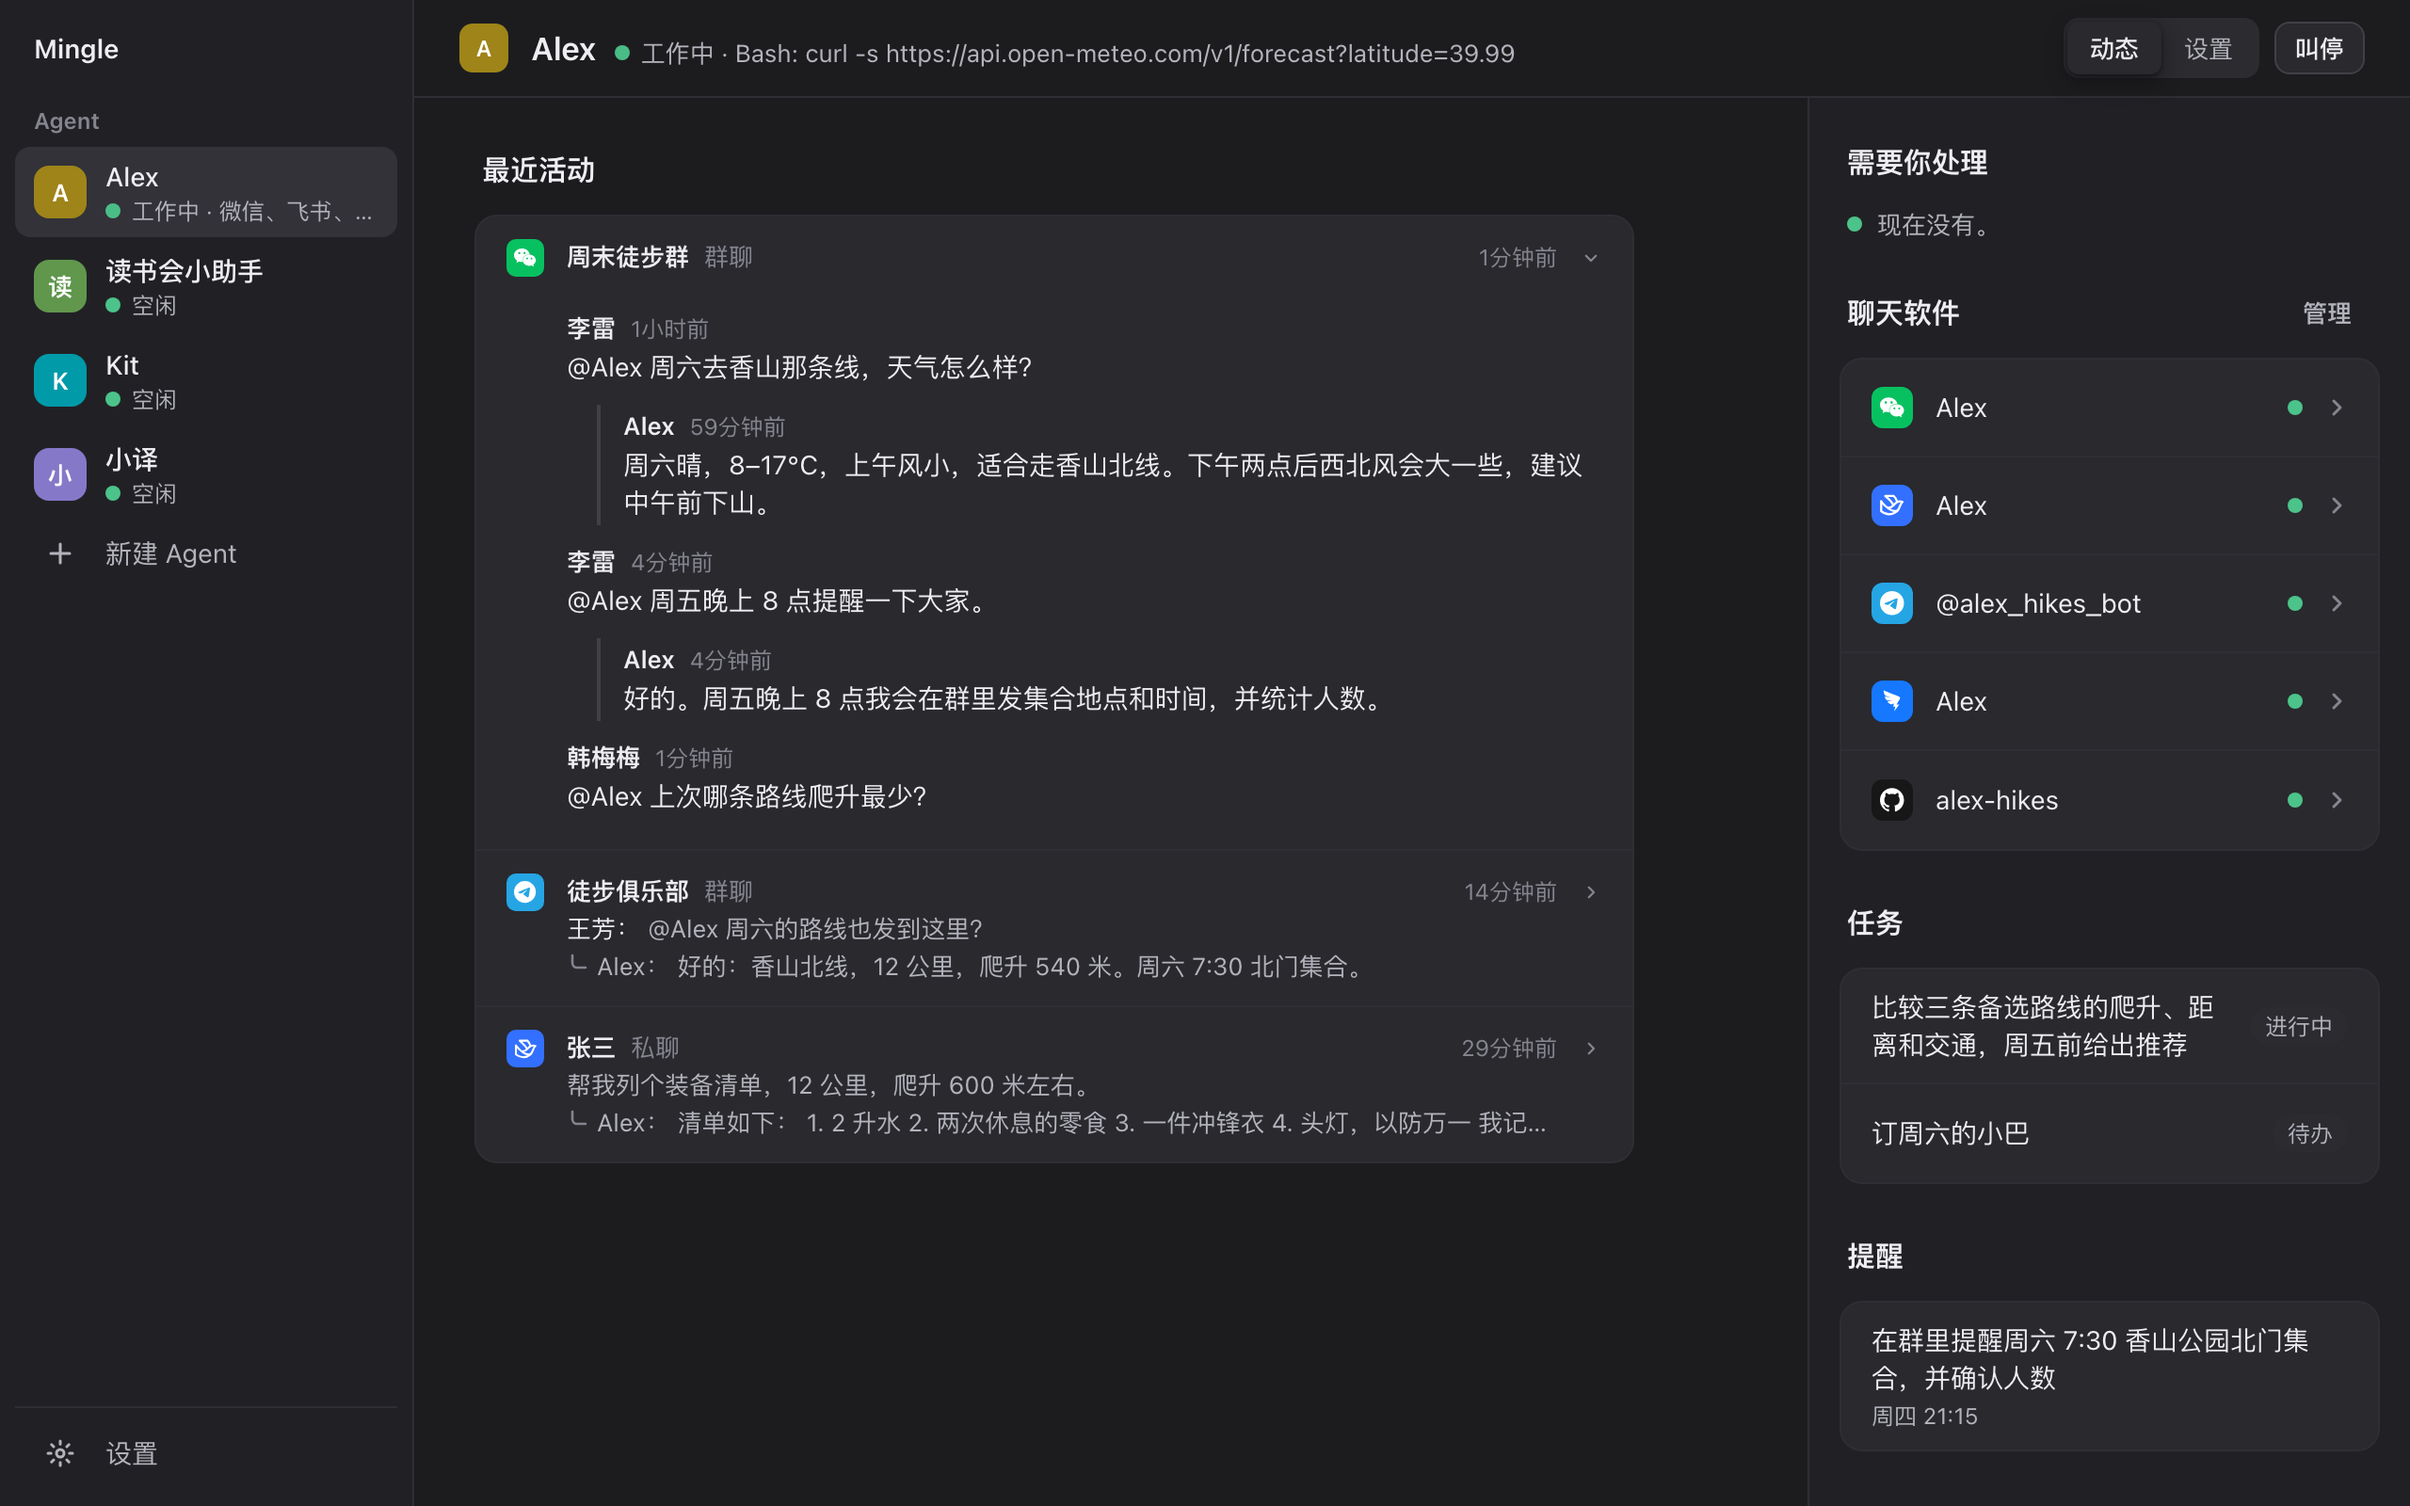
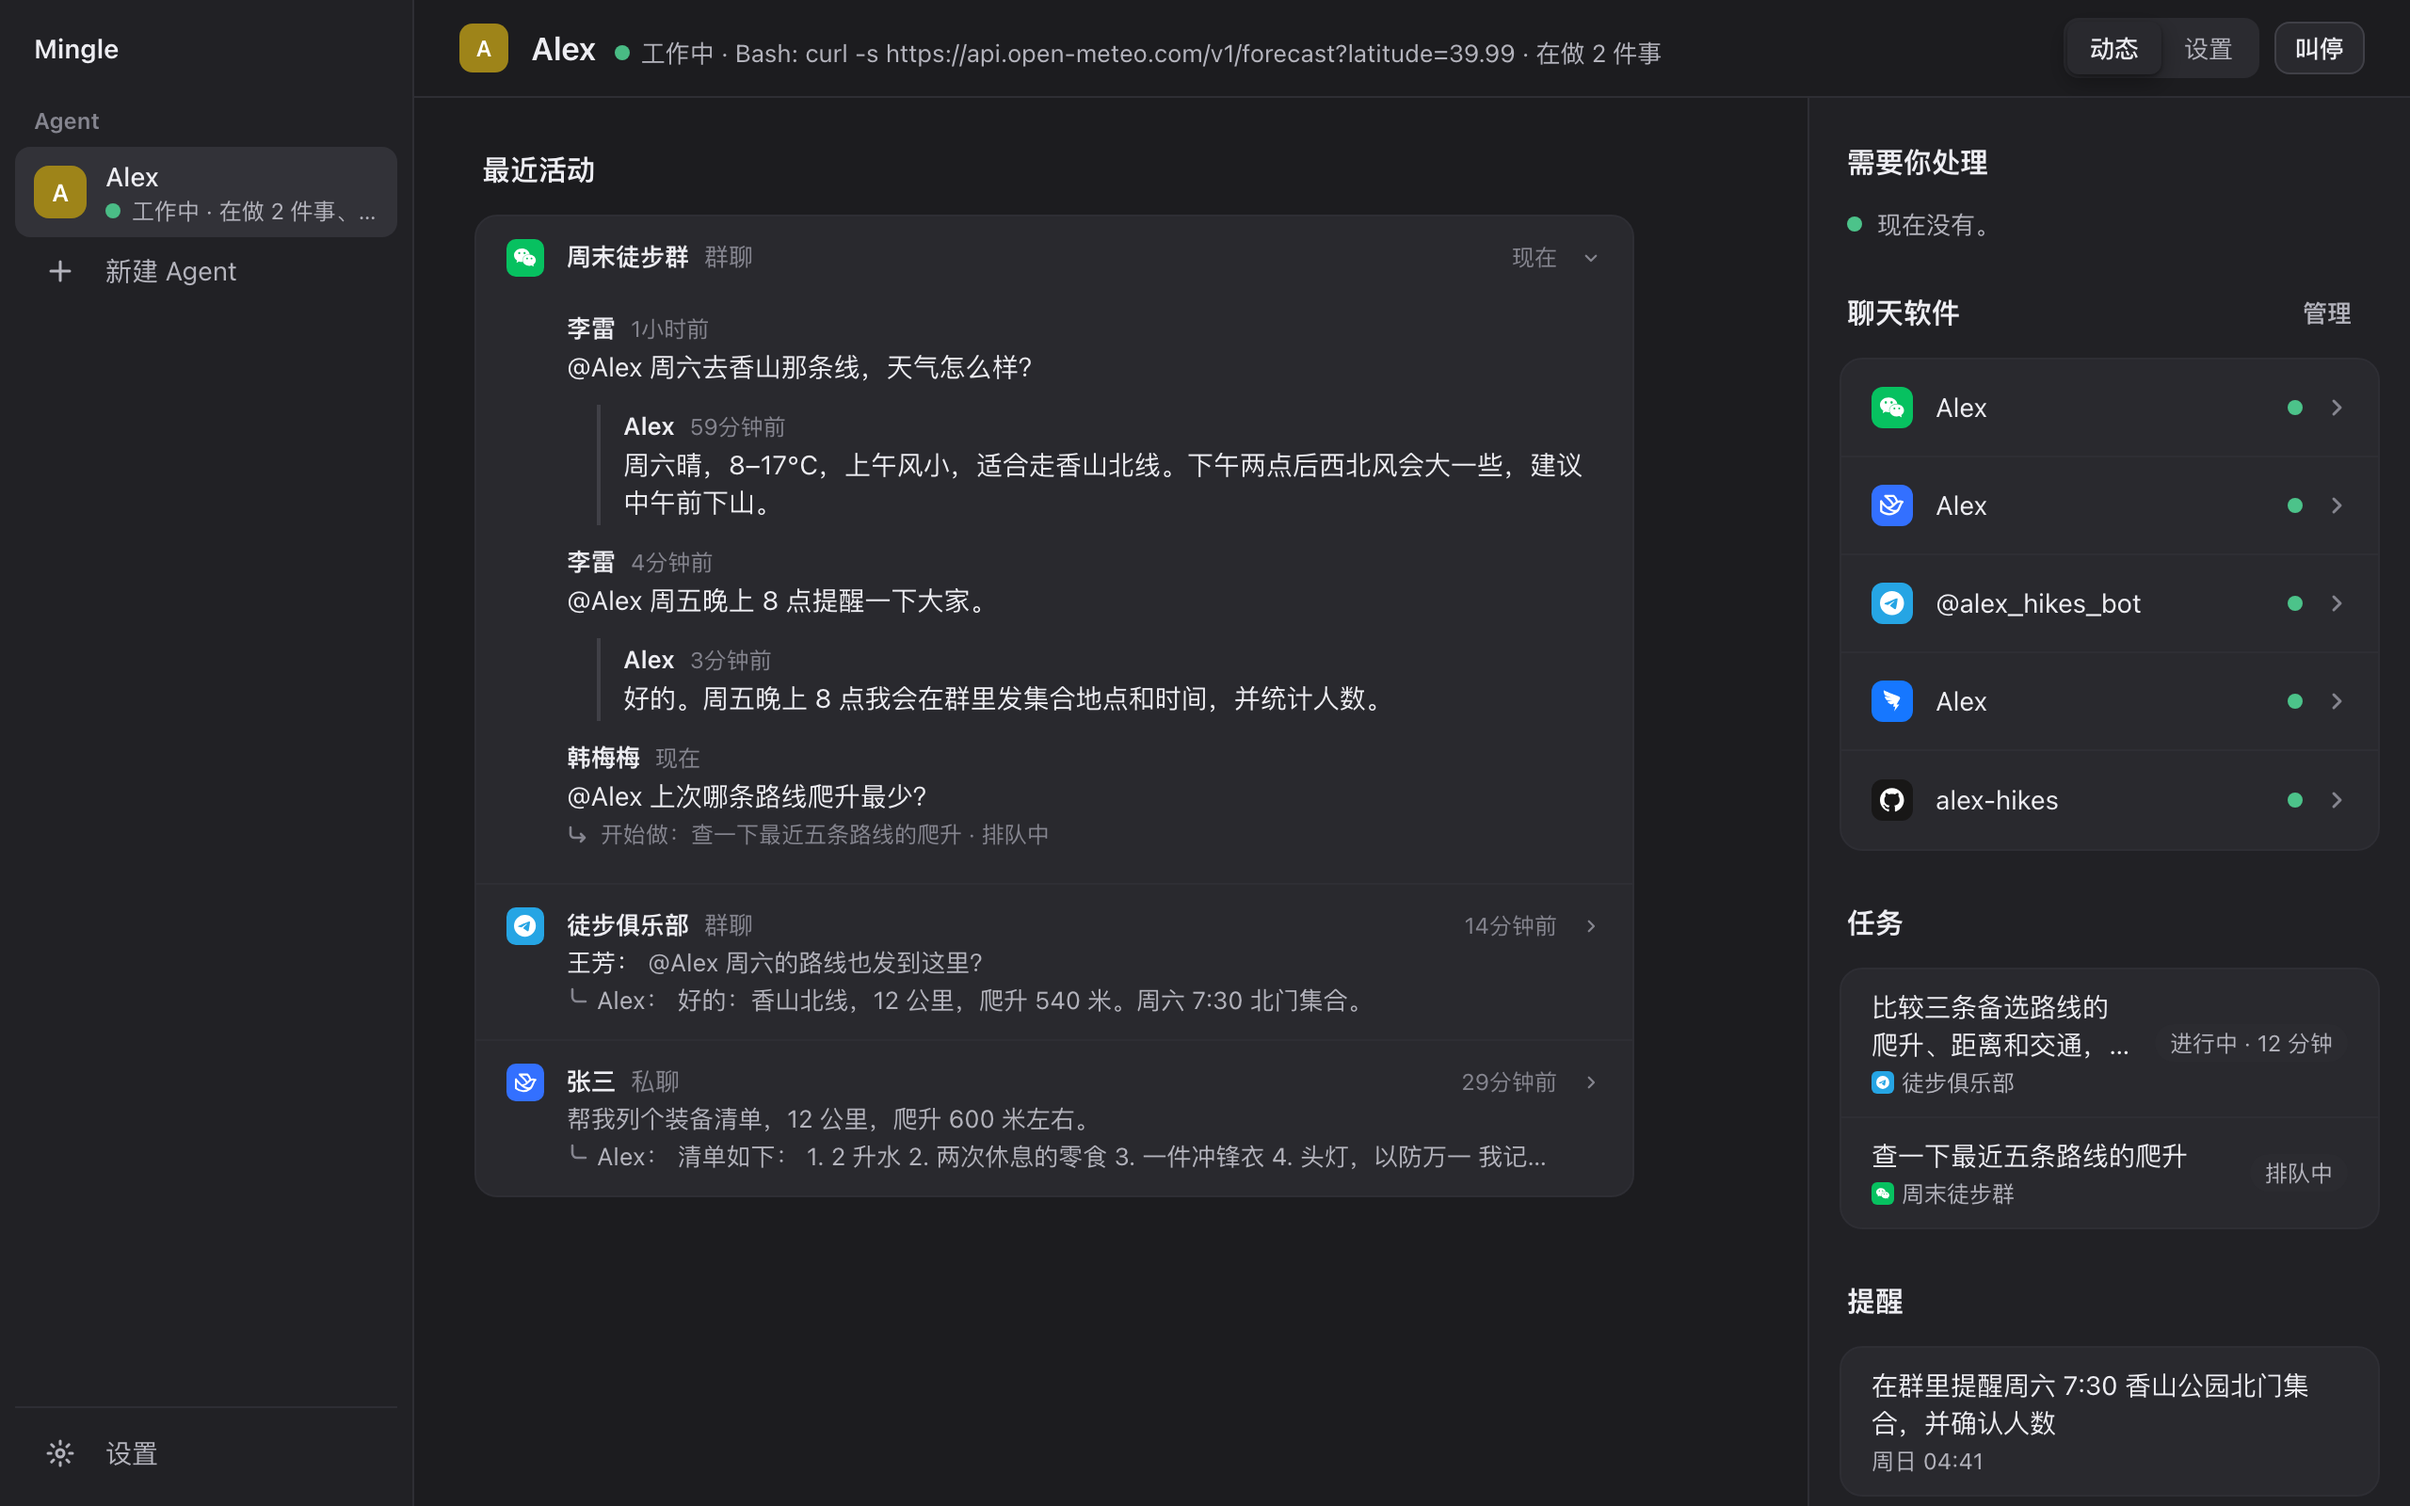
Tell the one-agent story on the site and in the console (MING-120)
Most people need one agent: it joins every chat app with one memory,
and since 0.4.1 it does long work on the side while still answering.
The site never said the second part and showed a row of four agents,
which suggests making more. Make "one agent is enough" the default
story (docs/spec.md 1.5) without hiding multi-agent.

- Site: a centered hero, "One agent. Every chat app."; a new section
  showing long work on the side with a quick answer meanwhile and the
  result quoted under the ask; the demo right after the hero and "No
  server" after Brains; console screenshots re-shot from the real app
  with one agent and two things under way; balanced headings, the
  Chinese hero fits on phones, long install commands fade instead of
  being cut.
- Console: someone who already has an agent sees one quiet line above
  the New agent form; with exactly one agent it links straight to
  connecting it to another chat app. Not shown on first run.
- spec 1.5 and a DESIGN principle record the direction.

diff --git a/site/styles.css b/site/styles.css
@@ -100,6 +100,11 @@ h1,
 h2,
 h3 {
   margin: 0;
+  /* Even lines, no word left alone on the last one. */
+  text-wrap: balance;
+}
+.lead {
+  text-wrap: pretty;
 }
 .wrap {
   max-width: 1080px;
@@ -234,16 +239,24 @@ h3 {
   display: block;
 }
 
-/* Hero: words on the left, the product on the right. */
+/* Hero: one line of what it is, centered, then the product itself. */
 .hero {
-  padding: 72px 0 40px;
+  padding: 96px 0 40px;
   overflow: hidden;
 }
-.hero-grid {
-  display: grid;
-  grid-template-columns: minmax(0, 1fr) minmax(0, 1fr);
-  gap: 24px 56px;
-  align-items: end;
+.hero-head {
+  display: flex;
+  flex-direction: column;
+  align-items: center;
+  text-align: center;
+}
+.hero-head .lead {
+  max-width: 640px;
+  margin: 28px auto 0;
+}
+.hero-head .cta {
+  justify-content: center;
+  margin-top: 36px;
 }
 .eyebrow {
   margin: 0 0 14px;
@@ -252,8 +265,8 @@ h3 {
   font-weight: 500;
 }
 h1 {
-  font-size: clamp(40px, 5.4vw, 64px);
-  line-height: 1.06;
+  font-size: clamp(44px, 6.6vw, 80px);
+  line-height: 1.02;
   font-weight: 760;
   letter-spacing: -0.035em;
 }
@@ -262,7 +275,7 @@ h2 span {
   color: var(--ink3);
 }
 :lang(zh-CN) h1 {
-  font-size: clamp(34px, 4.2vw, 54px);
+  font-size: clamp(36px, 5vw, 62px);
   letter-spacing: -0.01em;
   line-height: 1.18;
 }
@@ -272,41 +285,6 @@ h2 span {
   line-height: 1.65;
   max-width: 680px;
   margin: 20px 0 0;
-}
-.hero .lead {
-  margin-top: 0;
-}
-.pairs {
-  display: flex;
-  flex-wrap: wrap;
-  gap: 8px;
-  margin-top: 28px;
-}
-.pairs li {
-  display: inline-flex;
-  align-items: center;
-  gap: 7px;
-  padding: 6px 12px 6px 9px;
-  border: 1px solid var(--line);
-  border-radius: 99px;
-  background: var(--card);
-  font-size: 14px;
-  color: var(--ink2);
-}
-.pairs b {
-  color: var(--ink);
-  font-weight: 600;
-}
-.pairs .brain-icon,
-.pairs .brain-icon img {
-  width: 18px;
-  height: 18px;
-}
-.pairs .app-icon {
-  border-radius: 5px;
-}
-.pair-arrow {
-  color: var(--ink3);
 }
 .cta {
   display: flex;
@@ -327,7 +305,7 @@ h2 span {
   color: var(--ink);
 }
 .window.hero-shot {
-  margin-top: 64px;
+  margin-top: 72px;
 }
 
 /* A window around a screenshot */
@@ -1578,6 +1556,34 @@ html:not(.js) .phone-static .rx .chip {
   font-weight: 600;
 }
 
+/* Several things at once: words and a ruled list on the left, a group chat on the right. */
+.parallel .lines {
+  margin-top: 36px;
+}
+.parallel-phone {
+  width: 100%;
+  max-width: 380px;
+  height: 720px;
+  justify-self: center;
+}
+/* A reply that quotes what it answers, inside the bubble, as the chat apps draw one. */
+.qt {
+  margin: 0 0 6px;
+  padding: 2px 0 2px 8px;
+  border-left: 2px solid var(--im-accent);
+  color: var(--im-ink2);
+  font-size: 12px;
+  line-height: 1.45;
+  display: -webkit-box;
+  -webkit-line-clamp: 2;
+  -webkit-box-orient: vertical;
+  overflow: hidden;
+}
+.qt b {
+  font-weight: 600;
+  margin-right: 4px;
+}
+
 /* Brains: words on the left, a ruled list on the right. */
 .split {
   display: grid;
@@ -1630,6 +1636,9 @@ html:not(.js) .phone-static .rx .chip {
   margin: 0;
   padding: 14px 16px;
   overflow-x: auto;
+  scrollbar-width: none;
+  /* A long command scrolls; the edge fades instead of cutting a word in half. */
+  mask-image: linear-gradient(to right, #000 calc(100% - 40px), transparent);
   font-size: 13.5px;
   line-height: 1.6;
 }
@@ -1826,9 +1835,6 @@ html:not(.js) .phone-static .rx .chip {
   }
 }
 @media (max-width: 960px) {
-  .hero-grid {
-    grid-template-columns: minmax(0, 1fr);
-  }
   .window.hero-shot {
     margin-top: 48px;
   }
@@ -1890,8 +1896,14 @@ html:not(.js) .phone-static .rx .chip {
   .hero {
     padding-top: 40px;
   }
-  .hero .lead {
+  .hero-head .lead {
     font-size: 17px;
+  }
+  :lang(zh-CN) h1 {
+    font-size: 30px;
+  }
+  .parallel-phone {
+    height: 680px;
   }
   .cta .btn {
     flex: 1 1 100%;

diff --git a/web/src/NewAgent.tsx b/web/src/NewAgent.tsx
@@ -116,11 +116,14 @@ function suggestName(pool: readonly string[], taken: ReadonlySet<string>, curren
 
 export function NewAgent({
   first,
+  only,
   taken,
   onNavigate,
   onCreated,
 }: {
   first: boolean;
+  /** The one agent there already is, if exactly one: the note above the form offers it instead. */
+  only?: AgentView | undefined;
   /** Names other agents already have: the suggest button avoids them. */
   taken: readonly string[];
   onNavigate: Navigate;
@@ -193,6 +196,21 @@ export function NewAgent({
   const takenNames = new Set(taken.map((n) => n.toLowerCase()));
   const form = (
     <form onSubmit={submit} className="flex flex-col gap-8">
+      {/* One agent is enough for most people (docs/spec.md 1.5): say so before they make a second. */}
+      {first ? null : (
+        <p className="rounded-card border border-line bg-bg2 px-4 py-3 text-small text-ink2">
+          {t("new.oneIsEnough")}
+          {only ? (
+            <button
+              type="button"
+              onClick={() => onNavigate({ kind: "connect", slug: only.slug })}
+              className="mt-1 block font-medium text-accent hover:underline"
+            >
+              {t("new.connectInstead", { name: only.name })}
+            </button>
+          ) : null}
+        </p>
+      )}
       <Steps>
         <Step n={1} state={named ? "done" : "now"} title={t("new.step1")} open>
           <div className="relative">

diff --git a/web/src/i18n.ts b/web/src/i18n.ts
@@ -476,6 +476,9 @@ const en = {
   "welcome.step3Hint": "Message it directly, or @ it in a group.",
   "welcome.start": "Get started",
   "welcome.privacy": "Data stays on the machines you choose. There is no Mingle cloud service or account.",
+  "new.oneIsEnough":
+    "One agent can join all your chat apps and work on several things at once. Make another when you want a different name or identity.",
+  "new.connectInstead": "Connect {name} to another chat app instead →",
   "new.title": "New agent",
   "new.subtitle": "You can change all of this later.",
   "new.step1": "Give it a name",
@@ -1257,6 +1260,8 @@ const zh: Record<MessageKey, string> = {
   "welcome.step3Hint": "私聊它，或在群里 @ 它。",
   "welcome.start": "开始",
   "welcome.privacy": "数据保存在你选择的设备上。没有 Mingle 云服务，也不需要注册账号。",
+  "new.oneIsEnough": "同一个 Agent 可以接进你所有的聊天软件，也能同时做几件事。需要另一个名字或身份时，再新建一个。",
+  "new.connectInstead": "给 {name} 接入另一个聊天软件 →",
   "new.title": "新建 Agent",
   "new.subtitle": "这些之后都能改。",
   "new.step1": "给它起个名字",

diff --git a/web/src/App.tsx b/web/src/App.tsx
@@ -171,6 +171,7 @@ function Shell() {
       page = (
         <NewAgent
           first={agents.length === 0}
+          only={agents.length === 1 && !agents[0]?.remote ? agents[0] : undefined}
           taken={agents.map((a) => a.name)}
           onNavigate={navigate}
           onCreated={created}

diff --git a/docs/spec.md b/docs/spec.md
@@ -48,6 +48,14 @@ Mingle 不预设使用场景。同一个 Agent 可以是私聊里的个人助理
 - 云端桥接（Beeper 这类托管收件箱）。个人账号的连接也只在用户本机建立。
 - 跨群记忆隔离。已决定接受这个风险，见 8.3。
 
+### 1.5 一个 Agent 就够了
+
+对大多数人来说，一个 Agent 就够了：它接进所有聊天软件，同一份记忆，要花时间的活它自己在旁边做（4.13）。多 Agent 只是"需要另一个名字或身份时"的选项，不是升级路径。
+
+- **做决定时先问一句**：凡是"让多个 Agent 互相协作"的需求，先看一个 Agent 加线能不能做到。v0.4.0 的团队就是反例，已删除（4.13）。
+- **官网和引导讲的是这个故事**：建一个 Agent，把它接进你所有的聊天软件，跟它说话。官网截图里只有一个 Agent。
+- **控制台只提醒一次**：已经有 Agent 的人进新建页时，表单上方一行说明"同一个 Agent 可以接进你所有的聊天软件，也能同时做几件事。需要另一个名字或身份时，再新建一个"；只有一个 Agent 时多一个直达入口"给 Alex 接入另一个聊天软件"。第一次新建时不显示。不加引导卡片，也不藏"新建 Agent"。
+
 ## 2. 用户旅程
 
 1. 安装并启动 Mingle，浏览器打开本地控制台。

diff --git a/DESIGN.md b/DESIGN.md
@@ -64,6 +64,7 @@ motion: { fast: 120ms, base: 180ms, easing: "cubic-bezier(0.2, 0, 0, 1)" }
 3. **需要人的事放一处。** 出错的连接、等管理员审核、没回复的消息，都在"需要你处理"里，每条写清楚怎么办。
 4. **像 Mac 应用。** 系统字体；侧栏是窗口的毛玻璃，红绿灯和品牌在同一行；设置是圆角分组的行；跟随系统明暗和语言。
 5. **安静。** 没有弹窗、庆祝动画、引导气泡。状态就地变化。
+6. **一个 Agent 就够了。** 界面和官网默认讲一个 Agent 接进所有聊天软件；多 Agent 是正常功能，但不是默认路径（`docs/spec.md` 1.5）。
 
 ## 颜色
 
